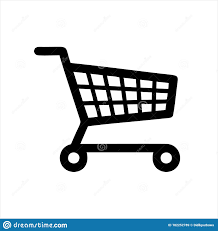
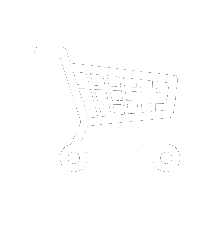
Hover over the shopping Cart
The Shopping Cart logo is now a .png which changes color when hovering

Changed region(s): [[0.1376, 0.1818, 0.8257, 0.7576], [0.0, 0.9394, 1.0, 1.0]]

diff --git a/src/index.html b/src/index.html
@@ -13,7 +13,7 @@
   <div class="topnav">
     <a class="openbtn" onclick="openNav()"><img src="assets/menu.png" style="width: 50px; height: 50px" /></a>
     <a><img src="assets/logo.png" style="width: 50px; height: 50px" /> </a>
-    <a id="cartBtn"><img src="assets/shopping-cart.png" style="width: 50px; height: 50px" /></a>
+    <a id="cartBtn" onmouseenter="onCartBtnEnter()" onmouseleave="onCartBtnLeave()"><img id="cartItemImage" src="assets/shopping-cart.png" style="width: 50px; height: 50px" /></a>
     <a>Search ______</a>
     <a id="loginElement" onclick="openDialog()">Login</a>
 

diff --git a/src/App.js b/src/App.js
@@ -18,6 +18,16 @@ span1.onclick = function () {
     cart_modal.style.display = 'none';
 };
 
+function onCartBtnEnter() {
+    var cartImage = document.getElementById("cartItemImage");
+    cartImage.src = "assets/shopping-cart-hover.png";
+}
+
+function onCartBtnLeave() {
+    var cartImage = document.getElementById("cartItemImage");
+    cartImage.src = "assets/shopping-cart.png";
+}
+
 // When the user clicks anywhere outside of the modal, close it
 window.onclick = function (event) {
     if (event.target == cart_modal) {
